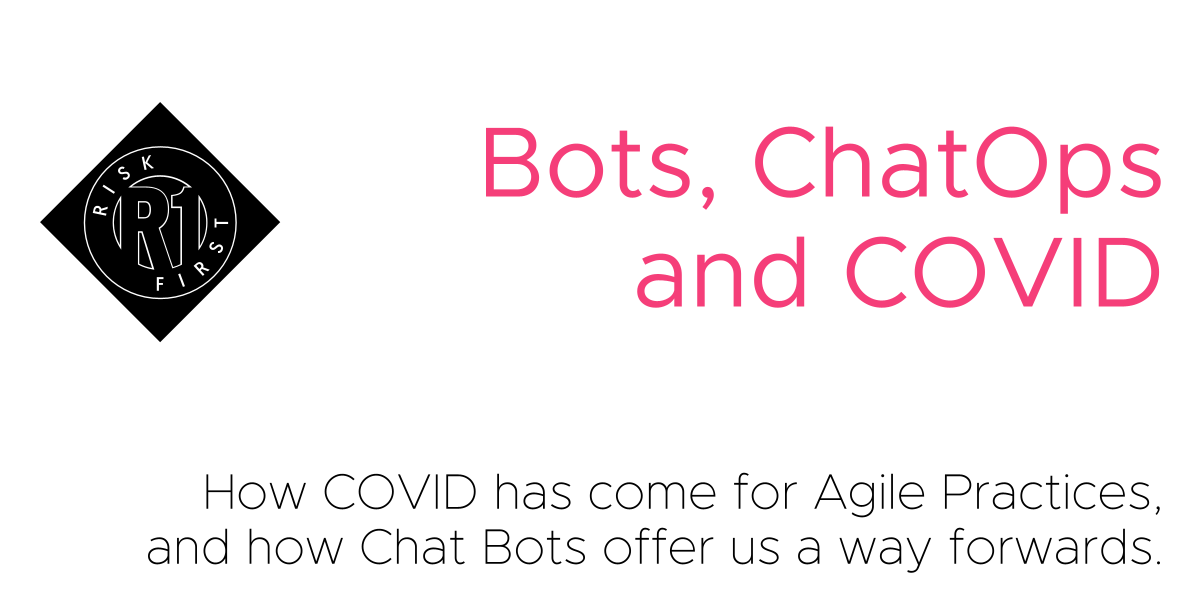
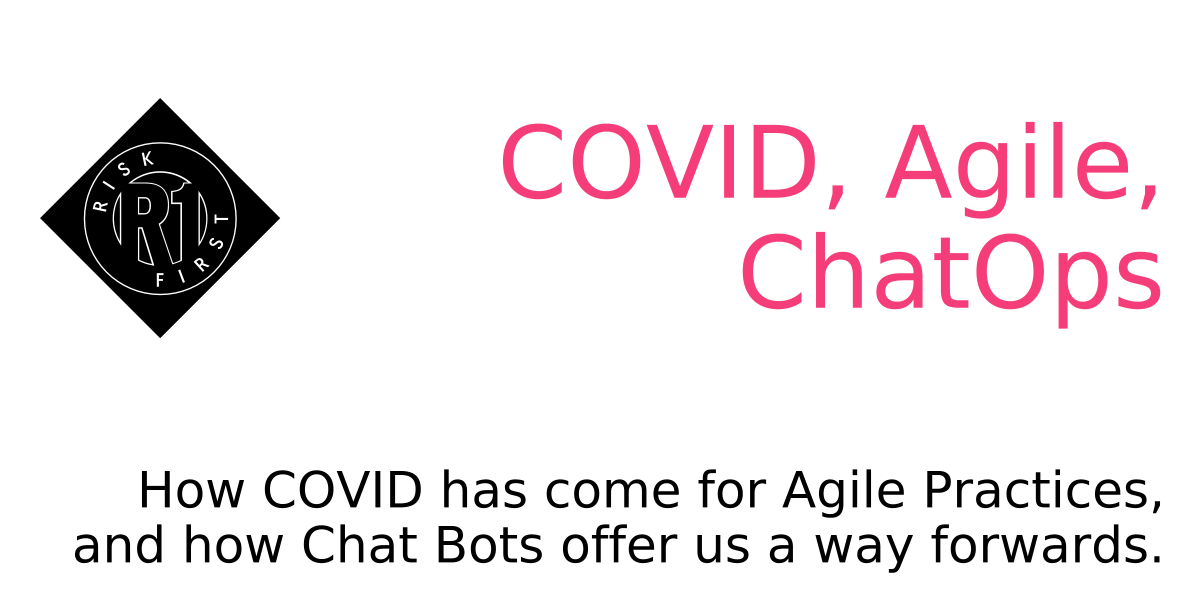
Updated chatops title and structure

diff --git a/presentations/BotsChatOpsCovid/chatops.html b/presentations/BotsChatOpsCovid/chatops.html
@@ -1,23 +1,25 @@
 ---
 template: post
-title: Bots, ChatOps and COVID
+title: COVID, Agile, ChatOps
 permalink: /presentations/BotsChatOpsCovid/chatops.html
 description: How COVID has come for Agile Practices, and how Chat Bots offer us a way forwards.
 author: rob
 url: https://riskfirst.org/presentations/BotsChatOpsCovid/chatops.html
 featured: 
   class: bg1
-  element: '<image-artifact imgsrc="/public/templates/risk-first/posts/bot.svg">Bots, ChatOps and COVID</image-artifact>'
+  element: '<image-artifact imgsrc="/public/templates/risk-first/posts/bot.svg">COVID, Agile, ChatOps</image-artifact>'
 date: 2020-11-07 16:32:03 +0000
-categories: 
+categories:
+ - Complexity 
  - Popular
+order: 6
 ---
 
-    <h1>Bots, ChatOps and COVID</h1>
+    <h1>COVID, Agile, ChatOps</h1>
     
     <p><em>This is a presentation prepared for <a href="https://www.finos.org">FINOS'</a> Open Source Strategy Forum, 2020. It is quite a lot 
     about chat-bots and the <a href="http://github.com/finos/symphony-java-toolkit">Symphony Java Toolkit</a>, but there's some stuff on 
-    Agile and ChatOps that makes it relevant to readers here.</em></p>
+    Agile and ChatOps that makes it relevant to readers of Risk-First.</em></p>
 
     <div class="slides">
         

diff --git a/_posts/2019-03-07-Next-Scrum.md b/_posts/2019-03-07-Next-Scrum.md
@@ -19,15 +19,15 @@ But nevertheless, I'm still seeing a fair bit of traffic over the last couple of
 
 It's got me thinking about what I want to do next on this project.  A quick recap:
 
-- Part one of Risk-First was explaining how Software Development is really an exercise in risk management.  Although that sounds a bit dull (maybe complex even), I try to explain it really simply.  
+- [Thinking Risk-First](/thinking/Start.md) was explaining how Software Development is really an exercise in risk management.  Although that sounds a bit dull (maybe complex even), I try to explain it really simply.  
 
-- Part two looks at the types of risks we face in Software Development.  I spend a while breaking down the different types.
+- [The Risk Catalog](/risks/Start.md) looks at the types of risks we face in Software Development.  I spend a while breaking down the different types.
 
-So next, Part 3 should look at the different _techniques/practices/actions_ we use, and explain the qualities of them.  Generally, all activity boils down into something like this:
+So next, we should look at the different _techniques/practices/actions_ we use, and explain the qualities of them.  Generally, all activity boils down into something like this:
 
 ![Taking Action](/images/generated/introduction/all_risk_management_language.png)
 
-And Part 4 was about examining software _methodologies_ (e.g. DevOps, XP, etc) as collections of techniques.  (Some people don't like this use of the word "methodology".  I can see why, but, it's the most commonly used term for this type of thing).
+Finally, we need a track on software _methodologies_ (e.g. DevOps, XP, etc) as collections of techniques.  (Some people don't like this use of the word "methodology".  I can see why, but, it's the most commonly used term for this type of thing).
 
 Put together it looks like:
 

diff --git a/The-Menagerie.md b/The-Menagerie.md
@@ -1,5 +1,5 @@
 ---
-title: The Menagerie
+title: 'Book: The Menagerie'
 description: "Risk-First Software Development Volume 1: The Menagerie.  Available to read online, on Kindle and to buy at Amazon"
 url: https://riskfirst.org/The-Menagerie
 
